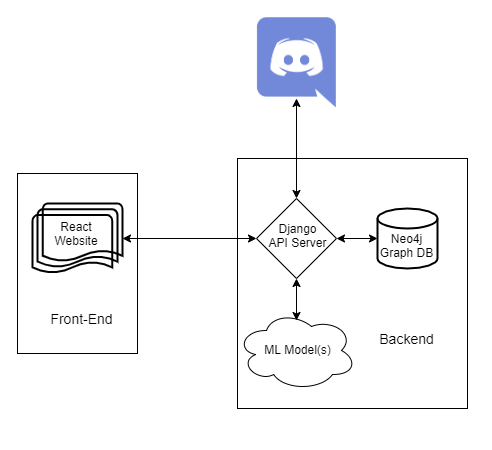
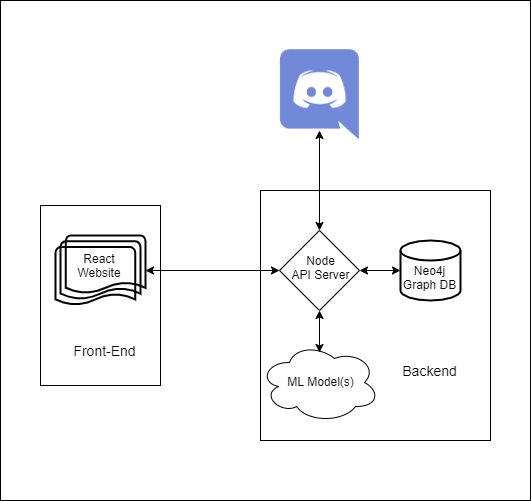
Update architecture image and readme to reflect Node backend.

diff --git a/README.md b/README.md
@@ -1,4 +1,6 @@
-# **janule** is a [Discord](https://discord.com/) bot which helps with meme storage.
+# Don't let your memes be dreams
+
+**janule** is a [Discord](https://discord.com/) bot which helps with meme storage.
 
 # __Please run `npm run-scripts all` before committing!__
 
